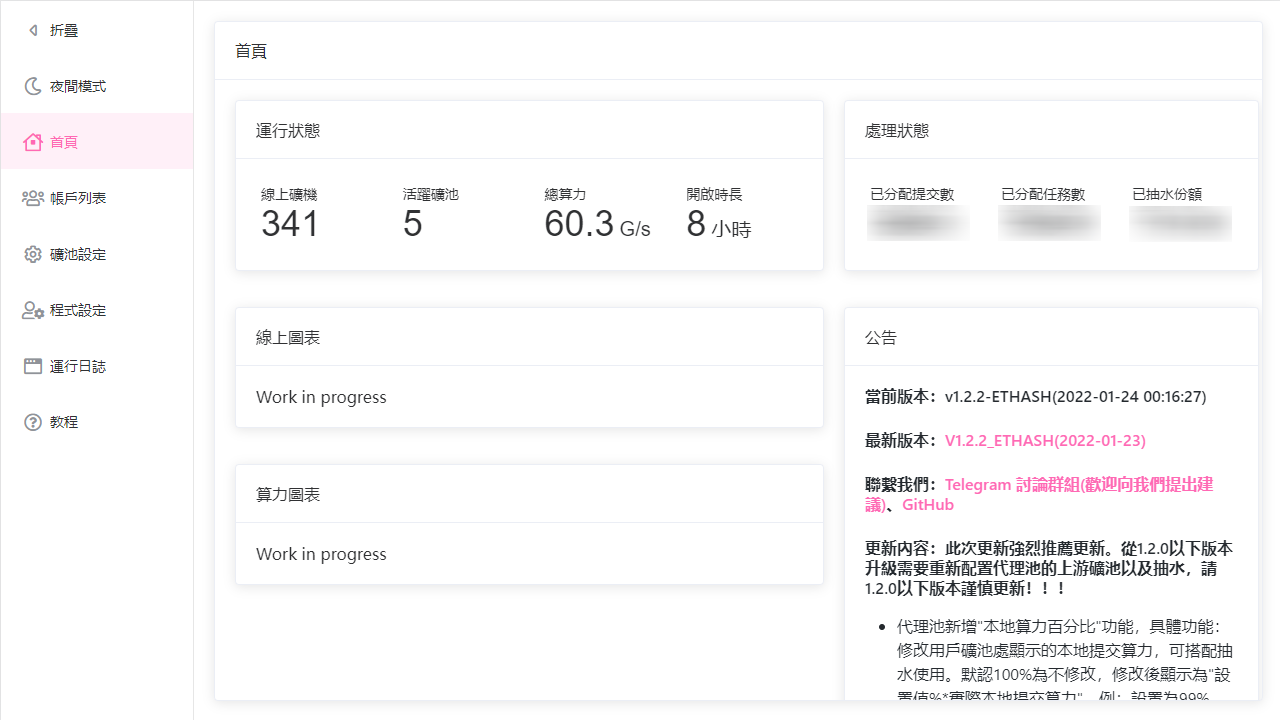
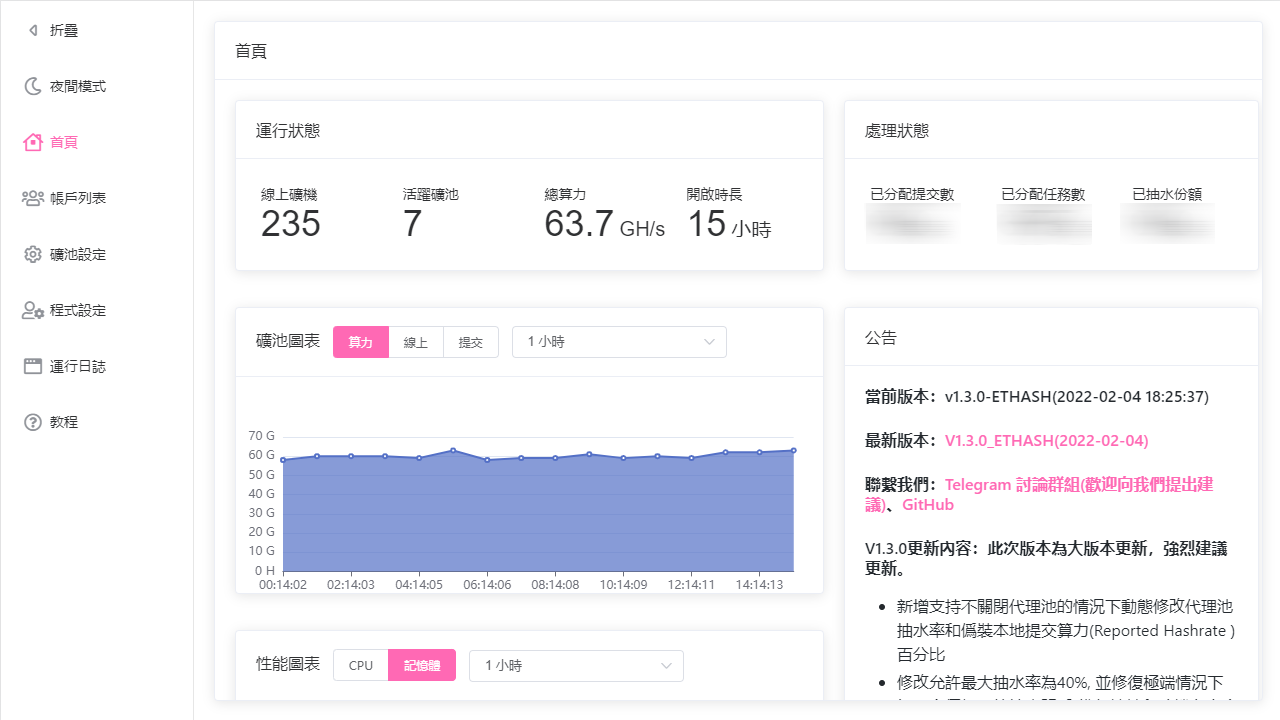
update images

diff --git a/README_zh-cn.md b/README_zh-cn.md
@@ -8,10 +8,10 @@
 
 <p align="center">
   <a>
-    <img src="https://img.shields.io/badge/Release-1.3.0_ETHASH-orgin.svg" alt="travis">
+    <img src="https://img.shields.io/badge/Release-1.3.1_ETHASH-orgin.svg" alt="travis">
   </a>
   <a>
-    <img src="https://img.shields.io/badge/Last_Update-2022_02_04-orgin.svg" alt="travis">
+    <img src="https://img.shields.io/badge/Last_Update-2022_02_06-orgin.svg" alt="travis">
   </a>
   <a>
     <img src="https://img.shields.io/badge/Language-GoLang-green.svg" alt="travis">
@@ -29,7 +29,7 @@
   <a href="https://t.me/go_minerproxy">Telegram 通知频道</a>
 </p>
 
-![Screenshot](https://raw.githubusercontent.com/GoMinerProxy/GoMinerProxy/main/images/web_2.png)
+![Screenshot](https://raw.githubusercontent.com/GoMinerProxy/GoMinerProxy/main/images/web_1.png)
 
 ## :sparkles: 特性
 

diff --git a/README.md b/README.md
@@ -11,7 +11,7 @@
     <img src="https://img.shields.io/badge/Release-1.3.0_ETHASH-orgin.svg" alt="travis">
   </a>
   <a>
-    <img src="https://img.shields.io/badge/Last_Update-2022_02_04-orgin.svg" alt="travis">
+    <img src="https://img.shields.io/badge/Last_Update-2022_02_06-orgin.svg" alt="travis">
   </a>
   <a>
     <img src="https://img.shields.io/badge/Language-GoLang-green.svg" alt="travis">
@@ -29,7 +29,7 @@
   <a href="https://t.me/go_minerproxy">Telegram 通知頻道</a>
 </p>
 
-![Screenshot](https://raw.githubusercontent.com/GoMinerProxy/GoMinerProxy/main/images/web_2.png)
+![Screenshot](https://raw.githubusercontent.com/GoMinerProxy/GoMinerProxy/main/images/web_1.png)
 
 ## :sparkles: 特性
 
